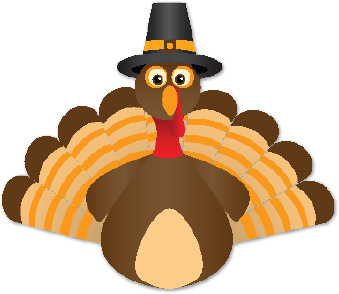
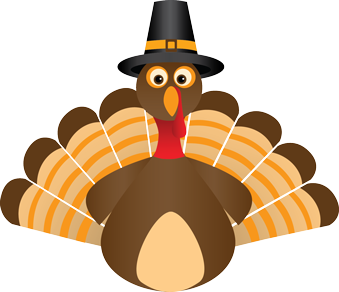
Higher quality turkey graphics, made mouse animatin repeat

diff --git a/Thanksgiving/index.html b/Thanksgiving/index.html
@@ -58,8 +58,8 @@
             
             game.load.image('sky', 'assets/img/sky.png');
             game.load.image('hills','assets/img/hills.png');
-            game.load.image('turkeyTail', 'assets/img/turkeyTail.png');
-            game.load.image('turkeyStand','assets/img/turkeyStandBody.png');
+            //game.load.image('turkeyTail', 'assets/img/turkeyTail.png');
+            game.load.image('turkeyStand','assets/img/turkeyStand.png');
             game.load.image('turkeySit', 'assets/img/turkeySit.png');
             game.load.image('turkeyBlink', 'assets/img/blinkEyes.png');
             game.load.image('branch1', 'assets/img/branch1.png');
@@ -134,7 +134,7 @@
             
             
             //SIZE BREAK
-
+            /*
             turkeyTail = game.add.sprite(0, 0, 'turkeyTail');
             //turkeyTail.x = game.world.centerX-(turkeyTail.width/2);
             //turkeyTail.y = game.world.centerY-(turkeyTail.height/2);
@@ -142,6 +142,7 @@
             turkeyTail.anchor.y = .9;
             turkeyTail.x = game.world.centerX;
             turkeyTail.y = game.world.centerY+(turkeyTail.height/2)-30;
+            */
             
             turkeyStand = game.add.sprite(0, 0, 'turkeyStand');
             turkeyStand.x = game.world.centerX-(turkeyStand.width/2);
@@ -933,7 +934,6 @@
            //TURKEY SIT
             if(game.time.totalElapsedSeconds()>6){
                 turkeyStand.visible = false;
-                turkeyTail.visible = false;
                 turkeySit.visible = true;
                
                 if(sat == false){
@@ -1013,7 +1013,7 @@
                 leaf5button.visible = true;
                 //MOUSE MOVE
                 mouse.visible = true;
-                game.add.tween(mouse).to( { x: leaf5.x+(leaf5.width/2), y: leaf5.y+(leaf5.height/2) }, 500, Phaser.Easing.Linear.None, true);
+                game.add.tween(mouse).to( { x: leaf5.x+(leaf5.width/2), y: leaf5.y+(leaf5.height/2) }, 5000, Phaser.Easing.Linear.None, true);
                 
             }
             if(leaf6.y >=  game.world.height - 20 - (game.world.height*.23) && fall1 == true && leaf6.visible == true){
@@ -1130,6 +1130,26 @@
                 rollPlay27 = true;
                 rollPlay28 = true;
             }
+            
+            if(mouse.x == leaf5button.x+(leaf5button.width/2)){
+                mouse.x = game.world.centerX;
+                mouse.y = game.world.centerY;
+                game.add.tween(mouse).to( { x: leaf13button.x+(leaf13button.width/2), y: leaf13button.y+(leaf13button.height/2) }, 5000, Phaser.Easing.Linear.None, true);
+            }
+            
+            if(mouse.x == leaf13button.x+(leaf13button.width/2)){
+                mouse.x = game.world.centerX;
+                mouse.y = game.world.centerY;
+                game.add.tween(mouse).to( { x: leaf17button.x+(leaf17button.width/2), y: leaf17button.y+(leaf17button.height/2) }, 5000, Phaser.Easing.Linear.None, true);
+            }
+            
+            if(mouse.x == leaf17button.x+(leaf17button.width/2)){
+                mouse.x = game.world.centerX;
+                mouse.y = game.world.centerY;
+                game.add.tween(mouse).to( { x: leaf5button.x+(leaf5button.width/2), y: leaf5button.y+(leaf5button.height/2) }, 5000, Phaser.Easing.Linear.None, true);
+            }
+            
+            
             
             
         }
